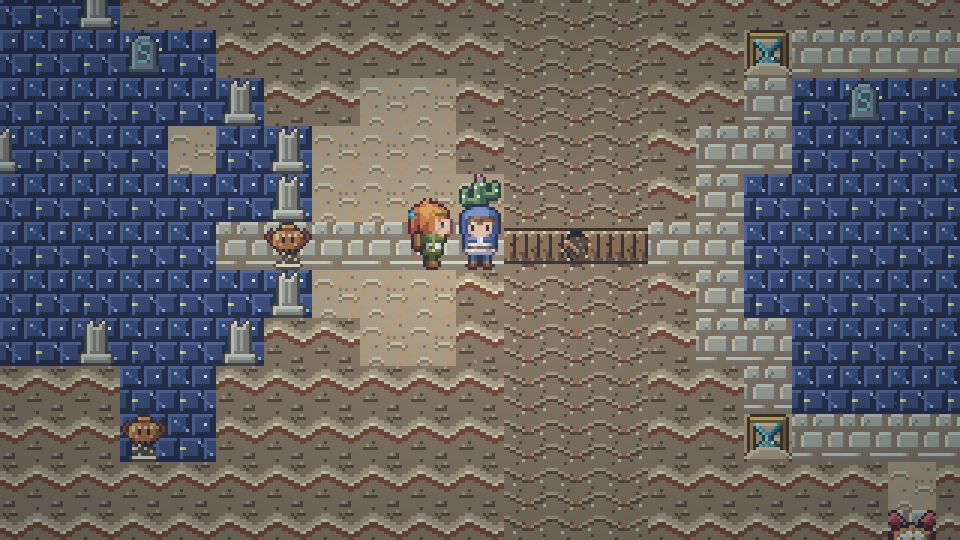
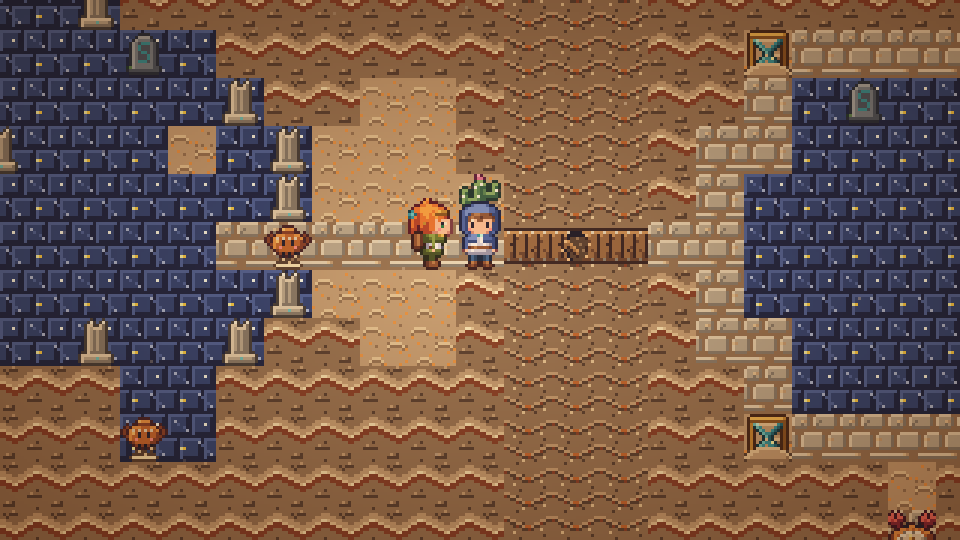
화풍 통일(지역 7): 사막 색 보정 desert 뒤 전후 화면과 미리보기
- map_preview: door에 props.sprite가 manifest에 있으면 그 그림으로(엔진 objectSpriteKey와 같게) → r07-map·view에 고장 난 다리
- desert 보정으로 다시 찍은 unify-r07-*-after.png·unify-r07-compare.png, 지역 7 E2E 화면

diff --git a/tools/art/map_preview.py b/tools/art/map_preview.py
@@ -134,6 +134,7 @@ def anim_frame(manifest, name, t):
 def actors(tmj, region):
     """[(스프라이트 이름, 프레임 번호, 타일 x, 타일 y)]"""
     out = []
+    known = build.load_manifest()["sprites"]
     objs = next(layer for layer in tmj["layers"] if layer["name"] == "objects")["objects"]
     for o in objs:
         props = {p["name"]: p["value"] for p in o.get("properties", [])}
@@ -150,6 +151,8 @@ def actors(tmj, region):
                 key = json.load(f)["enemy"]["sprite"]
         elif t == "npc":
             key = props["sprite"]
+        elif t == "door" and props.get("sprite") in known:
+            key = props["sprite"]          # 엔진 objectSpriteKey와 같다: door의 그림(고장 난 다리 등)이 manifest에 있으면
         else:
             key = OBJ_SPRITE.get(t)
         if key:
